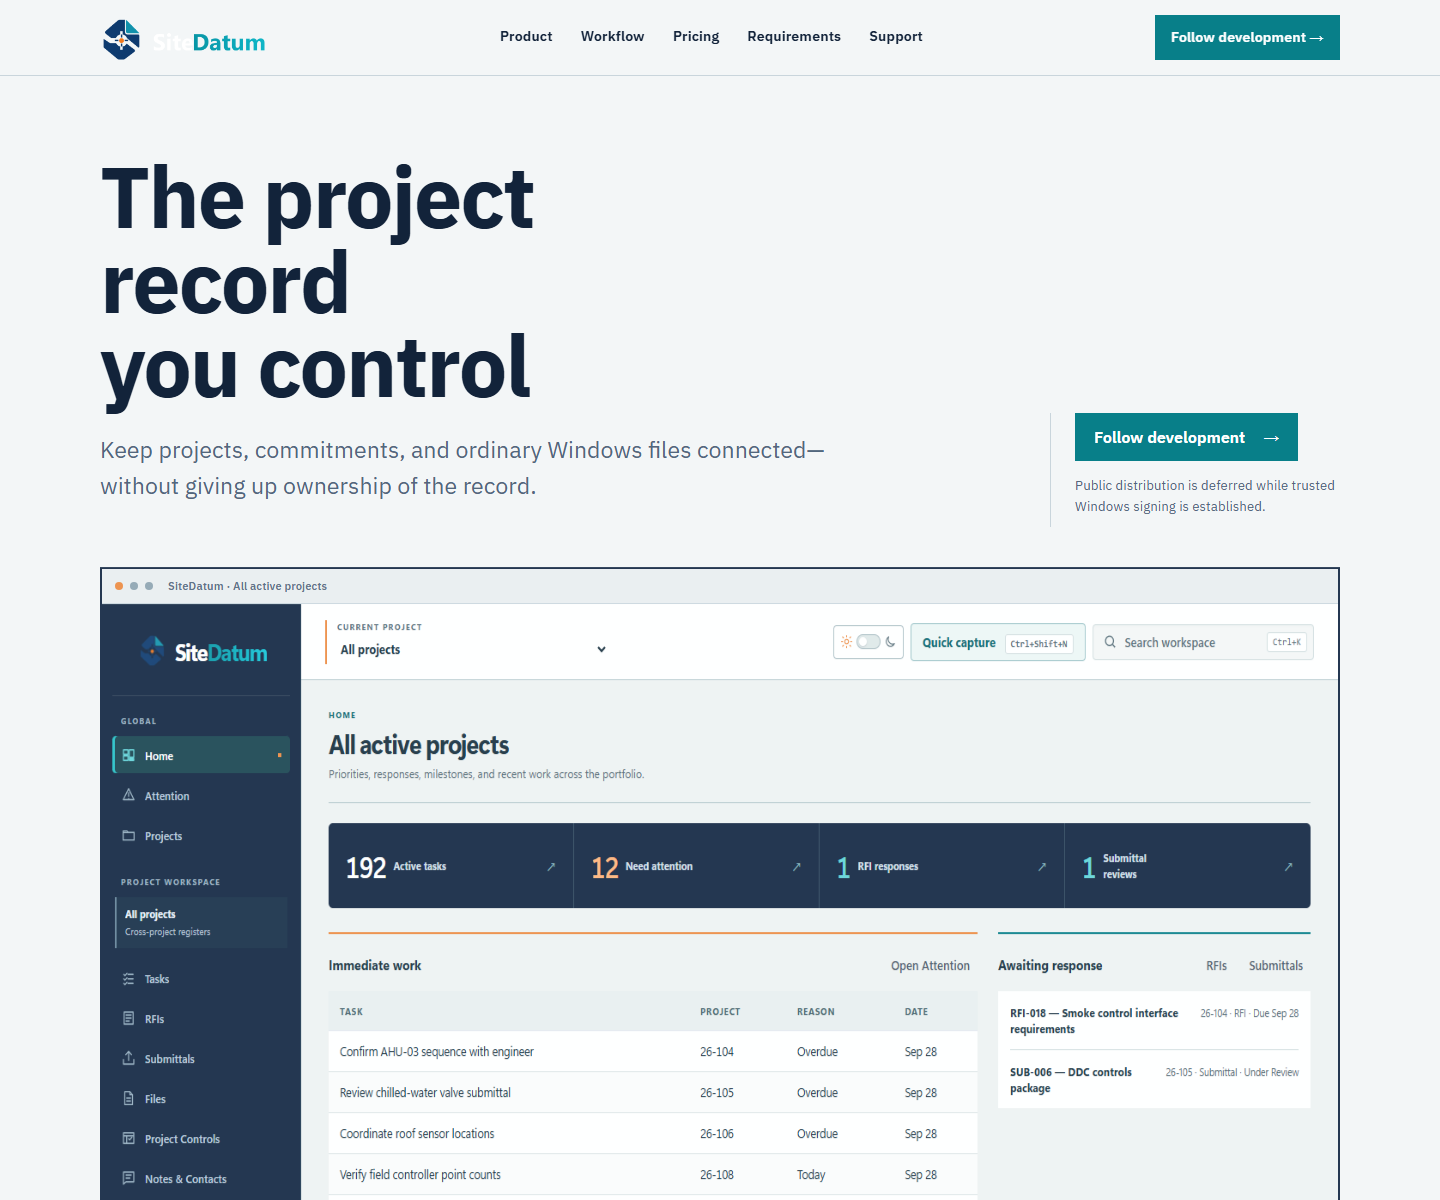
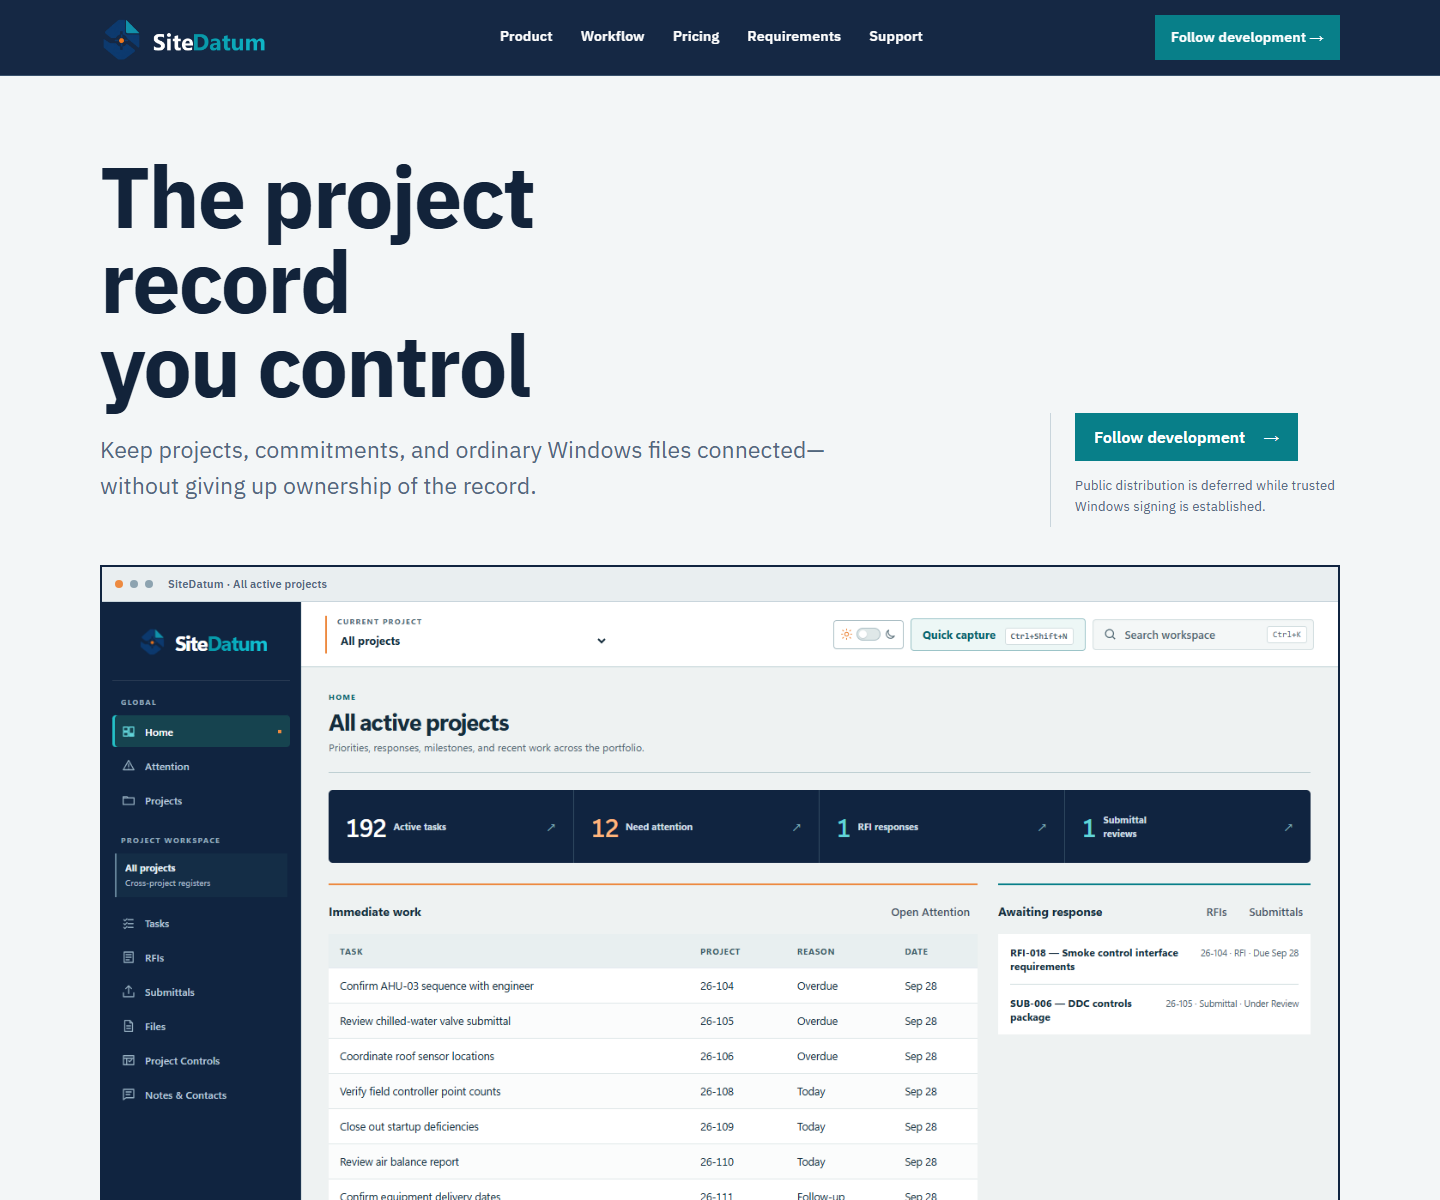
Polish site imagery and motion

diff --git a/site/site.css b/site/site.css
@@ -17,15 +17,15 @@ h3{font-size:1.35rem;line-height:1.2;margin-bottom:10px}
 p{max-width:70ch}
 .skip-link{position:fixed;top:12px;left:12px;z-index:100;transform:translateY(-160%);padding:10px 14px;background:var(--white);color:var(--navy);border:2px solid var(--teal)}
 .skip-link:focus{transform:none}
-.site-header{position:sticky;top:0;z-index:50;display:grid;grid-template-columns:auto 1fr auto;align-items:center;gap:28px;min-height:76px;padding:12px max(24px,calc((100vw - var(--max))/2));background:rgba(243,246,247,.97);border-bottom:1px solid var(--line);backdrop-filter:blur(14px)}
+.site-header{position:sticky;top:0;z-index:50;display:grid;grid-template-columns:auto 1fr auto;align-items:center;gap:28px;min-height:76px;padding:12px max(24px,calc((100vw - var(--max))/2));background:rgba(16,36,64,.98);color:var(--white);border-bottom:1px solid #38516c;backdrop-filter:blur(14px)}
 .brand img{width:168px;height:auto}
 .primary-nav{display:flex;justify-content:center;gap:28px}
 .primary-nav a,.header-action{font-size:.9rem;font-weight:600;text-decoration:none}
-.primary-nav a{padding:8px 0;border-bottom:2px solid transparent}
-.primary-nav a:hover{border-color:var(--teal)}
+.primary-nav a{padding:8px 0;color:var(--white);border-bottom:2px solid transparent}
+.primary-nav a:hover{border-color:#67d2d8}
 .header-action{padding:11px 16px;background:var(--teal);color:var(--white)}
 .header-action:hover{background:var(--teal-dark)}
-.nav-toggle{display:none;border:1px solid var(--line-dark);background:transparent;color:var(--navy);padding:9px 12px;font:inherit;font-weight:600}
+.nav-toggle{display:none;border:1px solid #7890a6;background:transparent;color:var(--white);padding:9px 12px;font:inherit;font-weight:600}
 .nav-toggle__lines{display:inline-block;width:18px;height:12px;margin-left:9px;border-top:2px solid currentColor;border-bottom:2px solid currentColor}
 main>section,.site-footer{width:min(calc(100% - 48px),var(--max));min-width:0;margin-inline:auto}
 .hero{display:grid;grid-template-columns:minmax(0,1fr) 290px;gap:24px 56px;padding:78px 0 52px}
@@ -37,13 +37,21 @@ main>section,.site-footer{width:min(calc(100% - 48px),var(--max));min-width:0;ma
 .button--primary:hover{background:var(--teal-dark)}
 .button--secondary{border-color:var(--line-dark);background:transparent;color:var(--navy)}
 .button--secondary:hover{border-color:var(--teal);color:var(--teal-dark)}
-.product-frame{grid-column:1/-1;width:100%;min-width:0;margin:14px 0 0;overflow:hidden;background:var(--white);border:2px solid var(--navy);animation:frame-arrive 650ms cubic-bezier(.16,1,.3,1) both}
+.product-frame{position:relative;grid-column:1/-1;width:100%;min-width:0;margin:14px 0 0;overflow:hidden;background:var(--white);border:2px solid var(--navy)}
 .product-frame__bar{display:flex;align-items:center;gap:7px;min-height:34px;padding:8px 13px;border-bottom:1px solid var(--line);background:#e9eef0}
 .product-frame__bar span{width:8px;height:8px;border-radius:50%;background:var(--line-dark)}
 .product-frame__bar span:first-child{background:var(--orange)}
 .product-frame__bar b{margin-left:8px;font-size:.71rem;font-weight:600;color:var(--muted)}
 .product-frame figcaption{padding:10px 14px;border-top:1px solid var(--line);font-size:.76rem;color:var(--muted)}
-@keyframes frame-arrive{from{opacity:.25;transform:translateY(18px);filter:blur(3px)}to{opacity:1;transform:none;filter:none}}
+.screenshot-trigger{position:relative;display:block;width:100%;padding:0;border:0;background:var(--white);color:var(--white);cursor:zoom-in;text-align:left;overflow:hidden}
+.screenshot-trigger img{width:100%;height:auto;image-rendering:auto}
+.screenshot-trigger__hint{position:absolute;right:14px;bottom:14px;display:flex;align-items:center;gap:8px;padding:8px 11px;background:rgba(16,36,64,.94);font-size:.78rem;font-weight:650;opacity:0;transform:translateY(4px);transition:opacity 150ms ease-out,transform 150ms ease-out}
+.screenshot-trigger__hint svg{width:16px;height:16px;fill:none;stroke:currentColor;stroke-width:1.8}
+.screenshot-trigger:hover .screenshot-trigger__hint,.screenshot-trigger:focus-visible .screenshot-trigger__hint{opacity:1;transform:none}
+.motion-ready .product-frame .screenshot-trigger{animation:record-reveal 720ms cubic-bezier(.16,1,.3,1) both}
+.motion-ready .product-frame::after{content:"";position:absolute;z-index:2;top:34px;bottom:47px;left:0;width:2px;background:var(--orange);pointer-events:none;animation:record-scan 720ms cubic-bezier(.16,1,.3,1) both}
+@keyframes record-reveal{from{clip-path:inset(0 100% 0 0);filter:saturate(.75)}to{clip-path:inset(0);filter:saturate(1)}}
+@keyframes record-scan{0%{left:0;opacity:0}12%{opacity:1}88%{opacity:1}100%{left:100%;opacity:0}}
 .proofs{display:grid;grid-template-columns:repeat(3,1fr);border-top:1px solid var(--line-dark);border-bottom:1px solid var(--line-dark)}
 .proofs article{position:relative;padding:34px 30px 34px 62px}
 .proofs article+article{border-left:1px solid var(--line)}
@@ -59,8 +67,8 @@ main>section,.site-footer{width:min(calc(100% - 48px),var(--max));min-width:0;ma
 .workflow-tab:hover{color:var(--teal-dark);background:#eaf1f2}
 .workflow-tab.is-active{color:var(--white);background:var(--navy)}
 .workflow-tab.is-active::after{content:"";position:absolute;left:20px;right:20px;bottom:-1px;height:3px;background:var(--orange)}
-.workflow__panel{display:grid;grid-template-columns:minmax(280px,.8fr) minmax(0,1.5fr);gap:48px;align-items:center;padding:42px 0}
-.workflow__panel>div{padding-left:22px;border-left:2px solid var(--orange)}
+.workflow__panel{display:grid;grid-template-columns:minmax(250px,.62fr) minmax(0,1.75fr);gap:42px;align-items:center;padding:42px 0}
+.workflow__panel>div{padding-left:22px;border-left:1px solid var(--orange)}
 .workflow__panel p,.workflow__panel li{color:var(--muted)}
 .workflow__panel ul{padding-left:20px;margin-bottom:0}
 .workflow__panel figure{width:100%;min-width:0;margin:0;border:2px solid var(--navy);overflow:hidden;background:var(--white)}
@@ -71,7 +79,7 @@ main>section,.site-footer{width:min(calc(100% - 48px),var(--max));min-width:0;ma
 .local-first dl{margin:0;border-top:1px solid #49617a}
 .local-first dl div{display:grid;grid-template-columns:150px 1fr;gap:20px;padding:15px 0;border-bottom:1px solid #49617a}
 .local-first dt{font-weight:650;color:#67d2d8}.local-first dd{margin:0;color:#ecf4f7}
-.pricing-table{overflow-x:auto;padding-block:8px;border-top:2px solid var(--navy);border-bottom:1px solid var(--line-dark)}
+.pricing-table{overflow-x:auto;padding:8px 0;border-top:2px solid var(--navy);border-bottom:1px solid var(--line-dark)}
 table{width:100%;border-collapse:collapse;font-variant-numeric:tabular-nums}
 th,td{padding:16px 18px;border-bottom:1px solid var(--line);text-align:left}
 thead th{background:var(--navy);color:var(--white);font-size:.84rem;letter-spacing:.04em;text-transform:uppercase}
@@ -85,7 +93,7 @@ tbody tr:hover{background:#e9f0f1}
 .status-band{display:flex;justify-content:space-between;align-items:center;gap:40px;padding:40px 0;border-top:2px solid var(--orange);border-bottom:1px solid var(--line-dark)}
 .status-band h2{font-size:1.55rem;margin-bottom:6px}.status-band p{margin:0;color:var(--muted)}
 .site-footer{display:grid;grid-template-columns:1fr auto;gap:20px 60px;padding:56px 0 40px}
-.site-footer img{width:150px;height:auto}.site-footer>div p,.site-footer>p{font-size:.84rem;color:var(--muted);margin:8px 0 0}
+.footer-brand{display:inline-block;padding:7px 10px;background:var(--navy)}.site-footer img{width:150px;height:auto}.site-footer>div>img{width:170px;padding:7px 10px;background:var(--navy)}.site-footer>div p,.site-footer>p{font-size:.84rem;color:var(--muted);margin:8px 0 0}
 .site-footer nav{display:flex;flex-wrap:wrap;gap:18px 24px;align-items:start}.site-footer nav a{font-size:.88rem;color:var(--navy)}
 .site-footer>p{grid-column:1/-1;padding-top:20px;border-top:1px solid var(--line)}
 .document-main{width:min(calc(100% - 48px),900px);margin:0 auto;padding:76px 0 100px}
@@ -93,7 +101,16 @@ tbody tr:hover{background:#e9f0f1}
 .document-main p,.document-main li{color:#344c63}.document-main .document-status{display:inline-block;margin-bottom:30px;padding:8px 12px;border:1px solid var(--orange);color:var(--warning);font-weight:650;font-size:.83rem}
 .document-main .notice{margin:32px 0;padding:22px;border:1px solid var(--line-dark);background:var(--white)}
 .document-main .notice h2{margin-top:0}.document-main address{font-style:normal}
-@media(max-width:900px){.site-header{grid-template-columns:auto auto 1fr}.nav-toggle{display:block;justify-self:end}.header-action{justify-self:end}.primary-nav{display:none;position:absolute;top:76px;left:0;right:0;flex-direction:column;gap:0;padding:12px 24px 18px;background:var(--paper);border-bottom:1px solid var(--line-dark)}.primary-nav.is-open{display:flex}.primary-nav a{padding:12px 0}.hero{grid-template-columns:1fr;padding-top:52px}.hero__action{border-left:0;border-top:1px solid var(--line);padding:22px 0 0}.proofs{grid-template-columns:1fr}.proofs article+article{border-left:0;border-top:1px solid var(--line)}.section-heading,.workflow__panel,.local-first{grid-template-columns:1fr;gap:30px}.local-first{padding:48px}.status-band{align-items:flex-start;flex-direction:column}.site-footer{grid-template-columns:1fr}}
+.screenshot-dialog{width:min(96vw,1500px);max-width:none;height:min(94vh,1080px);max-height:none;padding:0;border:2px solid var(--navy);background:var(--paper);color:var(--ink)}
+.screenshot-dialog::backdrop{background:rgba(6,17,31,.82);backdrop-filter:blur(3px)}
+.screenshot-dialog__bar{display:flex;align-items:center;justify-content:space-between;gap:20px;padding:12px 16px;background:var(--navy);color:var(--white)}
+.screenshot-dialog__bar h2{margin:0;font-size:1rem;letter-spacing:0}
+.screenshot-dialog__bar button{display:flex;align-items:center;gap:8px;padding:7px 10px;border:1px solid #7890a6;background:transparent;color:var(--white);font:inherit;font-weight:600;cursor:pointer}
+.screenshot-dialog__bar button:hover{border-color:#67d2d8;color:#67d2d8}
+.screenshot-dialog__bar svg{width:17px;height:17px;fill:none;stroke:currentColor;stroke-width:1.8}
+.screenshot-dialog__canvas{height:calc(100% - 55px);overflow:auto;padding:18px;background:#dfe7ea}
+.screenshot-dialog__canvas img{width:1440px;max-width:none;height:auto;margin:auto;background:var(--white);border:1px solid var(--line-dark)}
+@media(max-width:900px){.site-header{grid-template-columns:auto auto 1fr}.nav-toggle{display:block;justify-self:end}.header-action{justify-self:end}.primary-nav{display:none;position:absolute;top:76px;left:0;right:0;flex-direction:column;gap:0;padding:12px 24px 18px;background:var(--navy);border-bottom:1px solid #38516c}.primary-nav.is-open{display:flex}.primary-nav a{padding:12px 0}.hero{grid-template-columns:1fr;padding-top:52px}.hero__action{border-left:0;border-top:1px solid var(--line);padding:22px 0 0}.proofs{grid-template-columns:1fr}.proofs article+article{border-left:0;border-top:1px solid var(--line)}.section-heading,.workflow__panel,.local-first{grid-template-columns:1fr;gap:30px}.local-first{padding:48px}.status-band{align-items:flex-start;flex-direction:column}.site-footer{grid-template-columns:1fr}}
 @media(max-width:620px){main>section,.site-footer{width:min(calc(100% - 28px),var(--max))}.site-header{padding-inline:14px;gap:10px}.brand img{width:138px}.header-action{display:none}.hero{padding-top:40px}.proofs article{padding:26px 20px 26px 52px}.workflow,.pricing,.requirements{padding:78px 0}.workflow__stages{grid-template-columns:1fr}.workflow-tab{border-right:0;border-bottom:1px solid var(--line)}.workflow__panel{padding-top:30px}.local-first{width:100%;padding:44px 22px}.local-first dl div,.requirements__list div{grid-template-columns:1fr;gap:4px}.section-heading{margin-bottom:28px}.site-footer nav{flex-direction:column;gap:12px}}
-@media(prefers-reduced-motion:reduce){html{scroll-behavior:auto}*,*::before,*::after{animation:none!important;transition:none!important}}
+@media(prefers-reduced-motion:reduce){html{scroll-behavior:auto}.motion-ready .product-frame .screenshot-trigger{animation:record-reveal-reduced 180ms ease-out both}.motion-ready .product-frame::after{display:none}*,*::before,*::after{transition-duration:.01ms!important}@keyframes record-reveal-reduced{from{opacity:.72}to{opacity:1}}}
 

diff --git a/site/index.html b/site/index.html
@@ -13,7 +13,7 @@
     <a class="skip-link" href="#main">Skip to content</a>
     <header class="site-header" data-header>
       <a class="brand" href="index.html" aria-label="SiteDatum home">
-        <img src="assets/images/sitedatum-logo.png" alt="SiteDatum" width="176" height="48" />
+        <img src="assets/images/sitedatum-logo.png" alt="SiteDatum" width="176" height="53" />
       </a>
       <button class="nav-toggle" type="button" aria-expanded="false" aria-controls="primary-nav" data-nav-toggle>
         <span class="nav-toggle__label">Menu</span>
@@ -41,8 +41,11 @@
         </div>
         <figure class="product-frame">
           <div class="product-frame__bar" aria-hidden="true"><span></span><span></span><span></span><b>SiteDatum · All active projects</b></div>
-          <img src="assets/images/portfolio-overview.png" alt="SiteDatum portfolio overview showing active work, attention items, RFI responses, and submittal reviews" width="1600" height="1000" />
-          <figcaption>Actual SiteDatum 1.4.0 application screen. Illustrative project records are used in this promotional capture.</figcaption>
+          <button class="screenshot-trigger" type="button" data-screenshot-open data-full-image="assets/images/portfolio-overview.png" data-full-alt="SiteDatum portfolio overview showing active work, attention items, RFI responses, and submittal reviews" aria-label="Open the portfolio overview at full resolution">
+            <img src="assets/images/portfolio-overview.png" alt="SiteDatum portfolio overview showing active work, attention items, RFI responses, and submittal reviews" width="1440" height="1000" />
+            <span class="screenshot-trigger__hint"><svg viewBox="0 0 24 24" aria-hidden="true"><path d="M9 3H3v6M15 3h6v6M9 21H3v-6M15 21h6v-6"/></svg>View full resolution</span>
+          </button>
+          <figcaption>Actual SiteDatum 1.4.0 application screen with illustrative project records. Select the image to inspect it at full resolution.</figcaption>
         </figure>
       </section>
 
@@ -85,7 +88,10 @@
             </ul>
           </div>
           <figure>
-            <img data-workflow-image src="assets/images/task-management.png" alt="SiteDatum task register" width="1600" height="1000" />
+            <button class="screenshot-trigger" type="button" data-screenshot-open data-full-image="assets/images/task-management.png" data-full-alt="SiteDatum task register" aria-label="Open the SiteDatum task register at full resolution">
+              <img data-workflow-image src="assets/images/task-management.png" alt="SiteDatum task register" width="1440" height="1000" />
+              <span class="screenshot-trigger__hint"><svg viewBox="0 0 24 24" aria-hidden="true"><path d="M9 3H3v6M15 3h6v6M9 21H3v-6M15 21h6v-6"/></svg>View full resolution</span>
+            </button>
           </figure>
         </div>
       </section>
@@ -147,10 +153,17 @@
     </main>
 
     <footer class="site-footer">
-      <div><img src="assets/images/sitedatum-logo.png" alt="SiteDatum" width="152" height="42" /><p>The project record you control.</p></div>
+      <div><span class="footer-brand"><img src="assets/images/sitedatum-logo.png" alt="SiteDatum" width="152" height="46" /></span><p>The project record you control.</p></div>
       <nav aria-label="Legal and support"><a href="support.html">Support</a><a href="privacy.html">Privacy draft</a><a href="terms.html">Terms draft</a><a href="refunds.html">Refund policy draft</a></nav>
       <p>Created by Francisco Cabrera · <span data-year></span></p>
     </footer>
+    <dialog class="screenshot-dialog" data-screenshot-dialog aria-labelledby="screenshot-dialog-title">
+      <div class="screenshot-dialog__bar">
+        <h2 id="screenshot-dialog-title">SiteDatum application screen</h2>
+        <button type="button" data-screenshot-close aria-label="Close full-resolution image"><svg viewBox="0 0 24 24" aria-hidden="true"><path d="m5 5 14 14M19 5 5 19"/></svg><span>Close</span></button>
+      </div>
+      <div class="screenshot-dialog__canvas"><img data-screenshot-dialog-image src="assets/images/portfolio-overview.png" alt="" width="1440" height="1000" /></div>
+    </dialog>
   </body>
 </html>
 

diff --git a/site/site.js b/site/site.js
@@ -1,3 +1,5 @@
+document.documentElement.classList.add('motion-ready');
+
 const navToggle = document.querySelector('[data-nav-toggle]');
 const nav = document.querySelector('[data-nav]');
 
@@ -40,9 +42,11 @@ const workflowContent = {
 
 const workflowTabs = document.querySelectorAll('[data-workflow-tab]');
 const workflowPanel = document.querySelector('[data-workflow-panel]');
+let workflowSequence = 0;
 
 workflowTabs.forEach((tab) => {
-  tab.addEventListener('click', () => {
+  tab.addEventListener('click', async () => {
+    const sequence = ++workflowSequence;
     const key = tab.getAttribute('data-workflow-tab');
     const content = key ? workflowContent[key] : undefined;
     if (!content || !workflowPanel) return;
@@ -51,6 +55,21 @@ workflowTabs.forEach((tab) => {
       item.classList.toggle('is-active', active);
       item.setAttribute('aria-pressed', String(active));
     });
+    const image = workflowPanel.querySelector('[data-workflow-image]');
+    const trigger = workflowPanel.querySelector('[data-screenshot-open]');
+    const reduceMotion = window.matchMedia('(prefers-reduced-motion: reduce)').matches;
+    if (!reduceMotion && image.animate) {
+      try {
+        image.getAnimations().forEach((animation) => animation.cancel());
+        await image.animate(
+          [{ opacity: 1, clipPath: 'inset(0)' }, { opacity: 0, clipPath: 'inset(0 0 0 14%)' }],
+          { duration: 130, easing: 'ease-in', fill: 'forwards' },
+        ).finished;
+      } catch {
+        // A newer tab choice interrupted this transition; continue with its content.
+      }
+    }
+    if (sequence !== workflowSequence) return;
     workflowPanel.querySelector('[data-workflow-title]').textContent = content.title;
     workflowPanel.querySelector('[data-workflow-copy]').textContent = content.copy;
     const list = workflowPanel.querySelector('[data-workflow-list]');
@@ -59,10 +78,34 @@ workflowTabs.forEach((tab) => {
       li.textContent = item;
       return li;
     }));
-    const image = workflowPanel.querySelector('[data-workflow-image]');
     image.src = content.image;
     image.alt = content.alt;
+    trigger.dataset.fullImage = content.image;
+    trigger.dataset.fullAlt = content.alt;
+    trigger.setAttribute('aria-label', `Open ${content.alt} at full resolution`);
+    if (!reduceMotion && image.animate) {
+      image.animate(
+        [{ opacity: 0, clipPath: 'inset(0 14% 0 0)' }, { opacity: 1, clipPath: 'inset(0)' }],
+        { duration: 280, easing: 'cubic-bezier(.16,1,.3,1)', fill: 'both' },
+      );
+    }
   });
+});
+
+const screenshotDialog = document.querySelector('[data-screenshot-dialog]');
+const screenshotDialogImage = document.querySelector('[data-screenshot-dialog-image]');
+
+document.querySelectorAll('[data-screenshot-open]').forEach((trigger) => {
+  trigger.addEventListener('click', () => {
+    screenshotDialogImage.src = trigger.dataset.fullImage;
+    screenshotDialogImage.alt = trigger.dataset.fullAlt;
+    screenshotDialog.showModal();
+  });
+});
+
+document.querySelector('[data-screenshot-close]')?.addEventListener('click', () => screenshotDialog?.close());
+screenshotDialog?.addEventListener('click', (event) => {
+  if (event.target === screenshotDialog) screenshotDialog.close();
 });
 
 document.querySelectorAll('[data-year]').forEach((element) => {
